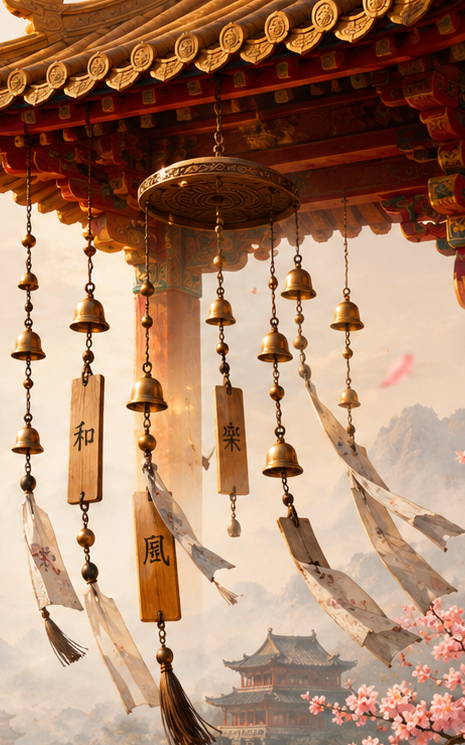
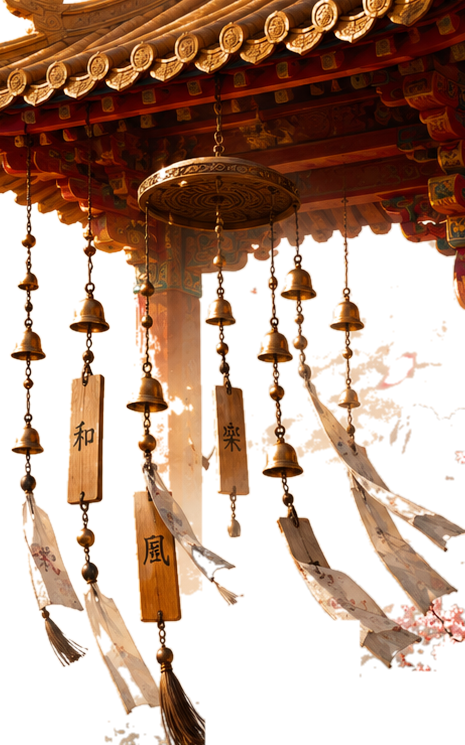
Add files via upload

diff --git a/style.css b/style.css
@@ -4256,8 +4256,8 @@
 
 
 /* =========================================================
-   HOLIDAY MASTI — PAGODA + WIND CHIME FINAL
-   Softly blended into the existing cream hero.
+   HOLIDAY MASTI — FINAL PAGODA + WIND CHIME
+   Transparent artwork: no rectangular photo background.
 ========================================================= */
 .hero-stage{
   position:relative !important;
@@ -4265,21 +4265,18 @@
   isolation:isolate !important;
 }
 
-/* The artwork is deliberately behind the existing globe. */
 .hm-chime-art{
   position:absolute !important;
-  top:-34px !important;
-  right:-42px !important;
-  width:560px !important;
+  top:-24px !important;
+  right:-22px !important;
+  width:600px !important;
   height:520px !important;
-  z-index:1 !important;
+  z-index:3 !important;
   pointer-events:none !important;
-  opacity:.56 !important;
-  mix-blend-mode:multiply !important;
+  opacity:.88 !important;
   overflow:visible !important;
-  -webkit-mask-image:radial-gradient(ellipse 68% 72% at 66% 30%,#000 0%,rgba(0,0,0,.96) 42%,rgba(0,0,0,.58) 66%,rgba(0,0,0,.16) 82%,transparent 100%);
-  mask-image:radial-gradient(ellipse 68% 72% at 66% 30%,#000 0%,rgba(0,0,0,.96) 42%,rgba(0,0,0,.58) 66%,rgba(0,0,0,.16) 82%,transparent 100%);
-  filter:saturate(.70) contrast(.88) brightness(1.08);
+  mix-blend-mode:normal !important;
+  filter:saturate(.92) contrast(.96) brightness(1.03) !important;
 }
 
 .hm-chime-art img{
@@ -4288,140 +4285,57 @@
   width:100% !important;
   height:100% !important;
   display:block !important;
-  object-fit:cover !important;
-  object-position:top center !important;
+  object-fit:contain !important;
+  object-position:top right !important;
   border:0 !important;
   box-shadow:none !important;
-  transform-origin:73% 23% !important;
+  transform-origin:76% 23% !important;
   transition:filter .25s ease !important;
 }
 
-/* Softens the lower scenery even further so the globe owns that area. */
-.hm-chime-art::after{
-  content:"";
-  position:absolute;
-  inset:0;
-  pointer-events:none;
-  z-index:3;
-  background:
-    linear-gradient(to bottom,transparent 45%,rgba(245,241,232,.35) 70%,#f5f1e8 100%),
-    radial-gradient(ellipse at 72% 24%,transparent 22%,rgba(245,241,232,.08) 48%,rgba(245,241,232,.52) 78%,#f5f1e8 100%);
-}
-
-.hero-stage #globe{
-  position:relative !important;
-  z-index:5 !important;
-}
-
-.hero-stage .orbit-label,
-.hero-stage .sticker{
-  z-index:8 !important;
-}
+.hero-stage #globe{position:relative !important;z-index:5 !important;}
+.hero-stage .orbit-label,.hero-stage .sticker{z-index:8 !important;}
 
 .hm-chime-hotspot{
-  position:absolute !important;
-  z-index:12 !important;
-  top:16% !important;
-  right:8% !important;
-  width:48% !important;
-  height:60% !important;
-  border-radius:50% !important;
-  pointer-events:auto !important;
-  cursor:pointer !important;
-  outline:none !important;
+  position:absolute !important; z-index:12 !important; top:17% !important; right:5% !important;
+  width:45% !important; height:62% !important; border-radius:50% !important;
+  pointer-events:auto !important; cursor:pointer !important; outline:none !important;
 }
 
-.hm-chime-art.is-ringing img{
-  animation:hmChimeSwing .82s cubic-bezier(.22,.72,.30,1) both !important;
-  filter:saturate(.82) contrast(.92) brightness(1.10) !important;
-}
-
+.hm-chime-art.is-ringing img{animation:hmChimeSwing .82s cubic-bezier(.22,.72,.30,1) both !important;}
 @keyframes hmChimeSwing{
-  0%{transform:rotate(0)}
-  14%{transform:rotate(1.55deg)}
-  30%{transform:rotate(-1.30deg)}
-  46%{transform:rotate(.92deg)}
-  62%{transform:rotate(-.62deg)}
-  78%{transform:rotate(.32deg)}
-  100%{transform:rotate(0)}
+  0%{transform:rotate(0)} 14%{transform:rotate(1.6deg)} 30%{transform:rotate(-1.35deg)}
+  46%{transform:rotate(1deg)} 62%{transform:rotate(-.65deg)} 78%{transform:rotate(.35deg)} 100%{transform:rotate(0)}
 }
 
 .hm-chime-hint{
-  position:absolute !important;
-  z-index:13 !important;
-  left:2% !important;
-  top:50% !important;
-  display:flex !important;
-  align-items:center !important;
-  gap:7px !important;
-  padding:8px 11px !important;
-  border-radius:14px !important;
-  background:rgba(255,253,246,.68) !important;
-  border:1px solid rgba(16,16,16,.07) !important;
-  backdrop-filter:blur(10px) !important;
-  color:#111 !important;
-  font-size:10px !important;
-  line-height:1.25 !important;
-  pointer-events:none !important;
-  opacity:.70 !important;
-  box-shadow:0 8px 24px rgba(16,16,16,.05) !important;
+  position:absolute !important; z-index:13 !important; left:4% !important; top:52% !important;
+  display:flex !important; align-items:center !important; gap:7px !important; padding:8px 11px !important;
+  border-radius:14px !important; background:rgba(255,253,246,.82) !important;
+  border:1px solid rgba(16,16,16,.07) !important; backdrop-filter:blur(10px) !important;
+  color:#111 !important; font-size:10px !important; line-height:1.25 !important;
+  pointer-events:none !important; opacity:.82 !important; box-shadow:0 8px 24px rgba(16,16,16,.05) !important;
 }
 .hm-chime-hint em{color:#777 !important;font-style:italic !important}
 .hm-chime-hand{font-size:18px !important}
 
 @media(max-width:1000px){
-  .hm-chime-art{
-    width:500px !important;
-    height:440px !important;
-    right:-55px !important;
-    top:-10px !important;
-    opacity:.48 !important;
-  }
-  .hm-chime-hotspot{right:5% !important;width:55% !important;height:56% !important}
+  .hm-chime-art{width:520px !important;height:450px !important;right:-55px !important;top:-8px !important;opacity:.80 !important;}
+  .hm-chime-hotspot{right:4% !important;width:52% !important;height:58% !important}
 }
 
 @media(max-width:767px){
-  .hero-stage{
-    min-height:500px !important;
-    height:500px !important;
-  }
-  .hm-chime-art{
-    width:430px !important;
-    height:320px !important;
-    right:-112px !important;
-    top:-12px !important;
-    opacity:.42 !important;
-    z-index:1 !important;
-  }
-  .hero-stage #globe{
-    position:absolute !important;
-    left:0 !important;
-    right:0 !important;
-    bottom:0 !important;
-    width:100% !important;
-    height:350px !important;
-    z-index:5 !important;
-  }
-  .hm-chime-hotspot{
-    top:7% !important;
-    right:4% !important;
-    width:62% !important;
-    height:54% !important;
-  }
-  .hm-chime-hint{
-    left:5% !important;
-    top:37% !important;
-    transform:scale(.80) !important;
-    transform-origin:left top !important;
-  }
+  .hero-stage{min-height:500px !important;height:500px !important;}
+  .hm-chime-art{width:430px !important;height:340px !important;right:-105px !important;top:-8px !important;opacity:.72 !important;z-index:3 !important;}
+  .hero-stage #globe{position:absolute !important;left:0 !important;right:0 !important;bottom:0 !important;width:100% !important;height:350px !important;z-index:5 !important;}
+  .hm-chime-hotspot{top:6% !important;right:4% !important;width:60% !important;height:54% !important}
+  .hm-chime-hint{left:5% !important;top:37% !important;transform:scale(.80) !important;transform-origin:left top !important;}
 }
 
 @media(max-width:390px){
-  .hm-chime-art{width:390px !important;height:290px !important;right:-100px !important}
+  .hm-chime-art{width:390px !important;height:305px !important;right:-100px !important}
   .hero-stage{min-height:475px !important;height:475px !important}
   .hero-stage #globe{height:325px !important}
 }
 
-@media(prefers-reduced-motion:reduce){
-  .hm-chime-art.is-ringing img{animation:none !important;transform:rotate(.4deg) !important}
-}
+@media(prefers-reduced-motion:reduce){.hm-chime-art.is-ringing img{animation:none !important;transform:rotate(.4deg) !important}}
